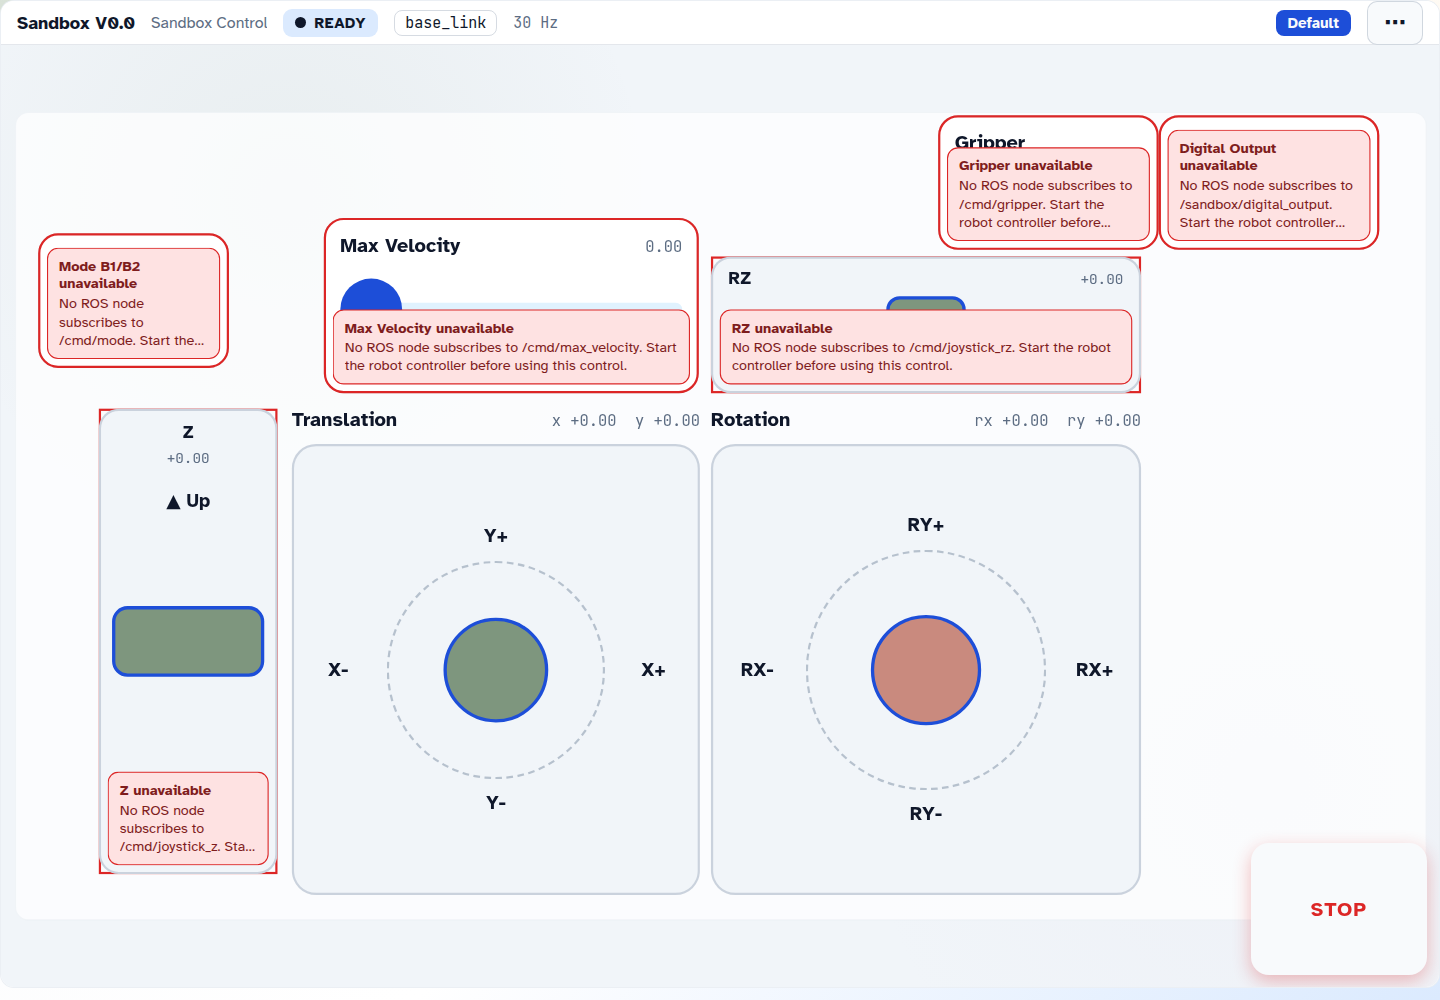
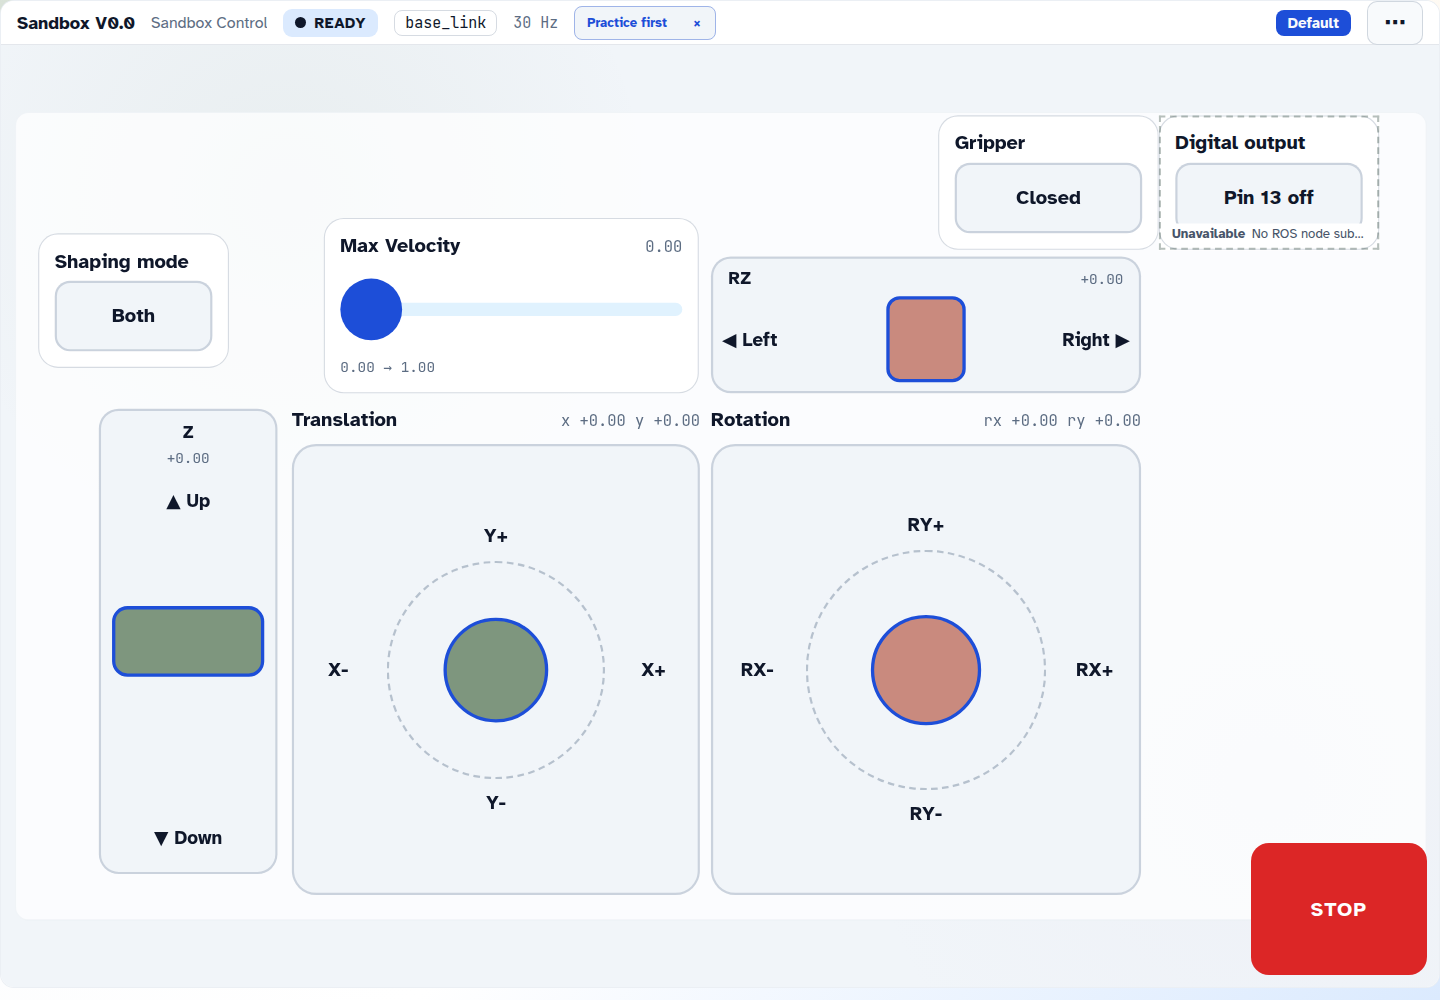
docs(readme): present Bloom to someone meeting it for the first time
The README opens with the Bloom logo instead of the landing page's hero,
then says in plain words what Bloom is: the control screen for an
assistive robot arm, built by the team around a person and driven by
that person. New sections walk through why teams use it, the Builder,
roles, devices, the 3D view and the apps that ship, each with larger
images, and the remaining screens move into a gallery further down.

Every screenshot was recaptured against a live simulated robot so no
control reads as unavailable, and the media record says how.

diff --git a/README.md b/README.md
@@ -1,6 +1,8 @@
 <p align="center">
-  <img src="docs/assets/readme/hero.png" alt="Bloom: give the gesture back. A tablet showing the Explorer Manager Drive screen with its STOP rail." width="100%" />
+  <img src="frontend/apps/bloom-dashboard/public/logo.png" alt="Bloom" width="460" />
 </p>
+
+<h3 align="center">Give the gesture back.</h3>
 
 <p align="center">
   <a href="https://github.com/ISIR-EXTENDER/bloom/actions/workflows/ci.yml"><img alt="CI" src="https://github.com/ISIR-EXTENDER/bloom/actions/workflows/ci.yml/badge.svg" /></a>
@@ -12,40 +14,164 @@
 
 <p align="center">
   <a href="#why-bloom">Why Bloom</a> ·
-  <a href="#watch-it-run">Watch it run</a> ·
+  <a href="#build-a-screen-without-code">Builder</a> ·
+  <a href="#one-app-the-right-screen-for-each-person">Roles</a> ·
+  <a href="#on-every-device">Devices</a> ·
+  <a href="#see-the-robot-not-just-the-controls">3D view</a> ·
+  <a href="#apps-you-can-open-today">Apps</a> ·
   <a href="#quickstart">Quickstart</a> ·
-  <a href="#tutorials">Tutorials</a> ·
-  <a href="#preview">Preview</a> ·
-  <a href="#design-language">Design language</a> ·
   <a href="#documentation">Documentation</a>
 </p>
 
-Bloom builds accessible web interfaces for robots and runs them in a focused kiosk. Compose screens visually, open the
-saved app as a role on a tablet or desktop, and reach the robot through a policy-checked backend that keeps ROS at the
-adapter boundary.
+Bloom is the control screen for an assistive robot arm.
 
-**Bloom is the active Extender operator interface (IHM).** `extender_ui` is legacy and remains only as a behaviour
-reference and emergency rollback during live acceptance.
+When someone cannot use their own arms, a robot arm, often mounted on their wheelchair, can reach, grip and bring
+things to them. What that person needs is a way to tell the arm where to go that suits how they move: a finger on a
+tablet, a gamepad, or one large button. Bloom is that way.
+
+The team around them builds the screen by dragging joysticks, buttons and sliders onto a page, with no code to
+write. The person opens it on a tablet and drives the arm. A large STOP is always on screen, only one screen can
+command the robot at a time, and the arm only does what the lab has allowed.
+
+<p align="center">
+  <img src="docs/assets/screenshots/runtime-explorer-drive.png" alt="Explorer Manager's Drive screen for the operator: speed in three steps, height, translation and rotation pads with the direction written on them, a gripper button and a tall red STOP." width="100%" />
+</p>
 
 ## Why Bloom
 
-Extender's older interfaces coupled screen layout, input devices, ROS transport, and one robot. Bloom replaces that
-pattern with one configurable interface system:
+- **No code to build a screen.** Drag a joystick onto a page, choose what it moves, save. Every screen in this
+  repository was made the same way, in the same editor.
+- **Shaped around the person, not the robot.** Large targets, tap-by-tap steps instead of dragging, a single switch
+  that walks the controls one at a time, or resting on a button to press it. Each person gets the layout and the
+  input that fit them.
+- **Safe by design.** STOP is on every screen, and no control can cover it. Once pressed it holds on the server,
+  even if the tablet reloads, until someone deliberately resumes. Only one screen drives the robot at a time, and
+  the server only sends what the lab has approved.
+- **Runs on what you already have.** A web browser on a tablet, a laptop or a desktop, with touch, a keyboard, a
+  gamepad or a switch. There is nothing to install on the tablet.
+- **You see what the robot is doing.** Live plots, joint readings, cameras, and the robot itself drawn in 3D as it
+  moves, without opening a separate engineering tool.
+- **One design, several robots.** Apps for the Explorer and Kinova Gen3 arms ship ready to use, and Bloom talks to
+  the robot through ROS 2, so the next robot does not need a new interface.
+- **In English, Spanish and French** on every operating screen.
 
-- **Build** reusable robot screens, controls, themes, profiles, and safety policies in the visual Builder.
-- **Operate** the saved application in a focused Runtime with one explicit control owner, guarded maintenance,
-  diagnostics, and a latched STOP.
-- **Connect** it through FastAPI and WebSockets to ROS 2 or another machine adapter without putting transport code in
-  the frontend.
+## Build a screen without code
 
-Explorer Manager and Kinova Manager ship ready to run. The same model also provides accessible input profiles, a
-read-only Supervisor mirror, plots, topic inspection, audit records, and shared JSON/SQLite configuration.
+The Builder is where screens are made. Pick a widget from the palette, a joystick, a button, a slider, a toggle, a
+camera, a plot or the robot in 3D, and drop it on the canvas. Then say what it does in the inspector: which part of
+the robot it talks to, what it sends when pressed and when released, and what it is called on screen. The inspector
+even shows the same command as it would be typed in a terminal, so an engineer can check it at a glance.
 
-## Watch It Run
+<p align="center">
+  <img src="docs/assets/screenshots/builder-inspector.png" alt="The Builder with Explorer Manager's operator Drive screen on the canvas and the gripper toggle selected. The inspector shows its topic, message type, labels and the payloads it sends, next to the equivalent terminal commands." width="100%" />
+</p>
 
-The walkthrough video is being re-recorded for 0.3.0, once cartesian_manager PR #11 lands and Bloom's tablet
-commands move to `/tablet_cartesian_command`. The 0.2.0 recordings were removed rather than left to show screens
-that no longer exist. `npm run record:demo` produces the new one from a seeded ROS-enabled runtime.
+The canvas previews the exact tablet or desktop the screen is for, keeps the space where STOP will sit, and warns
+when a button would be too small to press reliably on the real panel. A review checklist walks through what is
+left to check before anyone drives with the screen. Twenty kinds of widget are ready to use, from joysticks and
+toggles to cameras, live plots and the 3D robot view.
+
+<table>
+  <tr>
+    <td width="50%"><img src="docs/assets/screenshots/builder-screen-library.png" alt="The screen library, where every screen of every app can be found and reused." width="100%" /></td>
+    <td width="50%"><img src="docs/assets/screenshots/app-configuration.png" alt="An app's configuration: its theme, its roles and what it may send to the robot." width="100%" /></td>
+  </tr>
+  <tr>
+    <td align="center"><b>Every screen in one library</b>, ready to reuse in another app.</td>
+    <td align="center"><b>Each app has its own look, roles and limits</b> on what it may send.</td>
+  </tr>
+</table>
+
+## One app, the right screen for each person
+
+An app can open in more than one way. Each way is a **role**: the same robot and the same safety, with a screen
+made for a different person.
+
+- **Operator**, for the person driving the arm. Fewer, larger controls, and speed chosen in three steps rather than
+  set on a slider.
+- **Bench**, for the engineer beside the robot. Continuous sliders for the speed limits and the controller's tuning,
+  for testing and adjusting.
+- **One switch**, for someone who presses a single button. A highlight moves from control to control, starting with
+  STOP, and the switch presses whatever is lit.
+
+<table>
+  <tr>
+    <td width="50%"><img src="docs/assets/screenshots/runtime-explorer-drive.png" alt="Drive for the operator: speed in Slow, Medium and Fast steps, large pads and a tall STOP." width="100%" /></td>
+    <td width="50%"><img src="docs/assets/screenshots/runtime-explorer-drive-bench.png" alt="Drive for the bench: the same pads with continuous speed sliders and a controller gain slider." width="100%" /></td>
+  </tr>
+  <tr>
+    <td align="center"><b>Operator</b>: large controls, speed in three steps.</td>
+    <td align="center"><b>Bench</b>: the same robot, with continuous tuning.</td>
+  </tr>
+</table>
+
+<p align="center">
+  <img src="docs/assets/screenshots/runtime-explorer-one-switch.png" alt="Drive for a one-switch user: every control becomes a set of step buttons, and a large SWITCH button beside STOP presses whichever control is highlighted." width="100%" />
+</p>
+
+Bloom opens each app in the role last used on that device, so getting back to work is one press. Choosing another
+role is one more, and becomes the new default for that device.
+
+## On every device
+
+- **Tablet**, for operating. The screen fills the display like a kiosk: there are no menus to wander into, and
+  settings sit behind a deliberate long press, so a stray touch cannot change them.
+- **Laptop or desktop**, for building and understanding. The Builder, the debugging tools and the 3D robot view live
+  here, and Bloom keeps the 3D view off tablets and phones so it never slows the screen someone is driving with.
+- **A second screen**, for supervising. The supervisor mirror shows what the robot is doing and who has control, and
+  cannot command anything at all.
+- **Any input.** Touch, mouse, keyboard, a gamepad, a single switch, or resting on a target until it presses.
+
+<table>
+  <tr>
+    <td width="50%"><img src="docs/assets/screenshots/runtime-library.png" alt="The runtime library listing every app on this robot, whether it is made for a tablet or a desktop, and the role it will open in." width="100%" /></td>
+    <td width="50%"><img src="docs/assets/screenshots/runtime-supervisor.png" alt="The supervisor mirror: which app runs, which robot, whether STOP is engaged, and every robot topic marked live, with no controls at all." width="100%" /></td>
+  </tr>
+  <tr>
+    <td align="center"><b>Every app on this robot</b>, and the device each one is made for.</td>
+    <td align="center"><b>The supervisor mirror</b>: all the status, none of the controls.</td>
+  </tr>
+</table>
+
+## See the robot, not just the controls
+
+Bloom draws the robot as it moves, from the robot's own description, with the goals, paths and targets a program
+sends drawn on top of it: the view engineers usually open a separate tool for. It also shows where the arm is
+being asked to go while someone drives, and says plainly when the robot's data stops arriving.
+
+<p align="center">
+  <img src="docs/assets/screenshots/runtime-robot-3d-view.png" alt="Bloom Debug's Robot view: the Kinova arm drawn in 3D with a goal sphere and the path to it, next to a live readout of the hand's position and a log of the modes requested." width="100%" />
+</p>
+
+<table>
+  <tr>
+    <td width="50%"><img src="docs/assets/screenshots/runtime-explorer-feedback.png" alt="Robot feedback: a 30-second live plot of the robot's values, with the series picked by tap." width="100%" /></td>
+    <td width="50%"><img src="docs/assets/screenshots/runtime-widget-lab-robot.png" alt="Widget Lab's Robot screen: the 3D view with markers, a camera feed and saved poses." width="100%" /></td>
+  </tr>
+  <tr>
+    <td align="center"><b>Live plots</b> of any robot value, picked with a tap.</td>
+    <td align="center"><b>The 3D view with a camera</b> and poses saved from the robot.</td>
+  </tr>
+</table>
+
+## Apps you can open today
+
+Every app below ships with Bloom, so a fresh copy opens with the same library everyone else has.
+
+| App | What it is for | Roles |
+| --- | --- | --- |
+| **Explorer Manager** | Drive the Explorer arm: move and aim the hand, open and close the gripper, go to saved positions, follow the robot's feedback. | Operator, Bench, One switch |
+| **Kinova Manager** | The same, for the Kinova Gen3 arm. | Operator, Bench, One switch |
+| **Visual servoing** | Show the gripper camera a printed tag, save that view as the target, and let the arm find its own way back to it. | Operator, Bench |
+| **Bloom Debug** | For engineers on a laptop: live plots, joint readings, the robot in 3D and every topic's status. | Bench |
+| **Widget Lab** | Every widget Bloom offers, connected to a real or simulated robot, as a live catalogue. | Lab |
+| **Petanque admin** | The pétanque game with the robot: drive the throw, follow the match and measure the result. | |
+| **Sandbox V0.0** | The earlier Extender tablet app, rebuilt in Bloom. | |
+| **Explorer and Kinova camera test** | Drive with the gripper camera on screen, to check the camera before adding it to an app. | Bench |
+| **Webcam visualizer** | Check a camera screen in the browser, with no robot needed. | |
+
+An app you build or change can be shared the same way, as one file committed to this repository; see
+[Shared applications](#shared-applications).
 
 ## Quickstart
 
@@ -135,37 +261,63 @@ server-side `backend/data/bloom.db`, so a Builder save is visible after another 
 this development server. The [deployment guide](docs/deployment.md#same-wi-fi-access) covers verification, custom
 ports, firewall rules and database operations.
 
-## Preview
-
-| Builder | Explorer Manager | The robot in 3D |
-| --- | --- | --- |
-| ![Bloom screen builder](docs/assets/screenshots/builder-screen-canvas.png) | ![Explorer Manager Drive screen](docs/assets/screenshots/runtime-explorer-drive.png) | ![Bloom Debug drawing the running robot, a goal and the path to it](docs/assets/screenshots/runtime-robot-3d-view.png) |
+## More screens
 
 <details>
-<summary>More product and runtime screens</summary>
+<summary>The rest of Bloom, screen by screen</summary>
 
-| Home | Screen library | Runtime library |
-| --- | --- | --- |
-| ![Bloom landing page](docs/assets/screenshots/landing-page.png) | ![Bloom screen library](docs/assets/screenshots/builder-screen-library.png) | ![Bloom runtime app library](docs/assets/screenshots/runtime-library.png) |
-
-| Kinova Manager | Widget Lab, Robot screen | App configuration |
-| --- | --- | --- |
-| ![Kinova Manager Drive screen](docs/assets/screenshots/runtime-kinova-drive.png) | ![Widget Lab Robot screen with the 3D view, a camera and a saved pose](docs/assets/screenshots/runtime-widget-lab-robot.png) | ![Bloom app configuration](docs/assets/screenshots/app-configuration.png) |
-
-| Positions | Robot feedback | Joystick Lab |
-| --- | --- | --- |
-| ![Explorer Manager positions](docs/assets/screenshots/runtime-explorer-positions.png) | ![Explorer Manager robot feedback](docs/assets/screenshots/runtime-explorer-feedback.png) | ![Explorer Manager Joystick Lab](docs/assets/screenshots/11-joystick-lab.png) |
-
-| Command sources | Bloom Debug | Camera |
-| --- | --- | --- |
-| ![Explorer Manager command sources](docs/assets/screenshots/runtime-explorer-command-sources.png) | ![Bloom Debug runtime](docs/assets/screenshots/runtime-bloom-debug.png) | ![Webcam visualizer](docs/assets/screenshots/runtime-camera.png) |
+<table>
+  <tr>
+    <td width="50%"><img src="docs/assets/screenshots/landing-page.png" alt="Bloom's home page." width="100%" /></td>
+    <td width="50%"><img src="docs/assets/screenshots/builder-home.png" alt="The Builder's starting point: build an app, a screen or a theme." width="100%" /></td>
+  </tr>
+  <tr>
+    <td align="center"><b>Home</b></td>
+    <td align="center"><b>Builder home</b></td>
+  </tr>
+  <tr>
+    <td><img src="docs/assets/screenshots/builder-screen-canvas.png" alt="The Builder canvas with Bloom Debug's topic monitor laid out on a desktop artboard." width="100%" /></td>
+    <td><img src="docs/assets/screenshots/runtime-kinova-drive.png" alt="Kinova Manager's Drive screen for the operator." width="100%" /></td>
+  </tr>
+  <tr>
+    <td align="center"><b>A desktop screen in the Builder</b></td>
+    <td align="center"><b>Kinova Manager</b>, Drive for the operator</td>
+  </tr>
+  <tr>
+    <td><img src="docs/assets/screenshots/runtime-explorer-positions.png" alt="Positions: go to a named position, or capture the current one." width="100%" /></td>
+    <td><img src="docs/assets/screenshots/runtime-explorer-command-sources.png" alt="Command sources: every input driving the robot, and the command it is sent." width="100%" /></td>
+  </tr>
+  <tr>
+    <td align="center"><b>Positions</b>, named and captured</td>
+    <td align="center"><b>Command sources</b>, everything driving the arm</td>
+  </tr>
+  <tr>
+    <td><img src="docs/assets/screenshots/11-joystick-lab.png" alt="Joystick Lab: try each command frame and watch the command it produces." width="100%" /></td>
+    <td><img src="docs/assets/screenshots/runtime-bloom-debug.png" alt="Bloom Debug's topic monitor: plots, joint table, Jacobian and raw messages." width="100%" /></td>
+  </tr>
+  <tr>
+    <td align="center"><b>Joystick Lab</b>, frames side by side</td>
+    <td align="center"><b>Bloom Debug</b>, the engineer's monitor</td>
+  </tr>
+  <tr>
+    <td><img src="docs/assets/screenshots/runtime-live-teleop.png" alt="Sandbox V0.0, the earlier Extender tablet app rebuilt in Bloom." width="100%" /></td>
+    <td><img src="docs/assets/screenshots/runtime-camera.png" alt="The webcam visualizer showing a camera feed in the browser." width="100%" /></td>
+  </tr>
+  <tr>
+    <td align="center"><b>Sandbox V0.0</b>, rebuilt in Bloom</td>
+    <td align="center"><b>Webcam visualizer</b></td>
+  </tr>
+</table>
 
 </details>
 
-The general preview set is captured from the ROS bench, so a control whose topic has no subscriber there reads as
-unavailable. The Joystick Lab image, the two 3D robot views and the walkthrough use a live ROS graph: the 3D view
-draws the robot the API serves, so without one it shows its note instead of a scene. Refresh the general set from a running dashboard and
-isolated seeded backend with:
+### Refreshing the screenshots
+
+The screenshots on this page are taken against a live simulated robot, so every control reads as connected:
+`npm run capture:readme` runs against a dashboard whose API was started with `api run-ros` beside the Explorer
+simulation, and the Kinova Manager image beside the Kinova one. Without a robot, controls read as unavailable, which
+is accurate but says little about the product. The two 3D robot views need a running robot for the same reason, and
+[the media record](docs/validation/2026-09-16-explorer-tutorial-media.md) says how each was taken.
 
 ```bash
 npx playwright install chromium

diff --git a/docs/validation/2026-09-16-explorer-tutorial-media.md b/docs/validation/2026-09-16-explorer-tutorial-media.md
@@ -83,3 +83,18 @@ start first so the pose reads. `npm run capture:readme` leaves both alone, since
 
 Taking them found a defect: a marker that gives a colour per point was hidden when its own `color.a` was unset,
 where rviz draws it because `colors` overrides `color`. Fixed, with a test, before the capture was kept.
+
+## Amended 2026-09-25: the README set, recaptured against live robots
+
+The README now opens with the Bloom logo and presents the product for someone meeting it for the first time: the
+Builder, the roles, the devices, the 3D view and the apps that ship. Every screenshot was recaptured with
+`npm run capture:readme` against a dashboard whose API ran `api run-ros` beside the Explorer simulation, and the
+Kinova Manager image beside the Kinova simulation, so no control reads as unavailable. Five images are new:
+`builder-inspector` (the gripper toggle's topic and payloads on Explorer Manager's operator Drive),
+`runtime-explorer-drive-bench` and `runtime-explorer-one-switch` (the same Drive in two more roles), and
+`runtime-supervisor`.
+
+Recapturing found three things. The capture script's own guard had refused to run since the `allowed_parameters`
+policy field was added, because it filled in every API default but that one. The runtime library still said
+"Choosing is deliberate" after roles gained a default. And the one-switch pads printed their readout as
+`x 0.00y 0.00`, which a screen reader also heard run together. All three are fixed.
